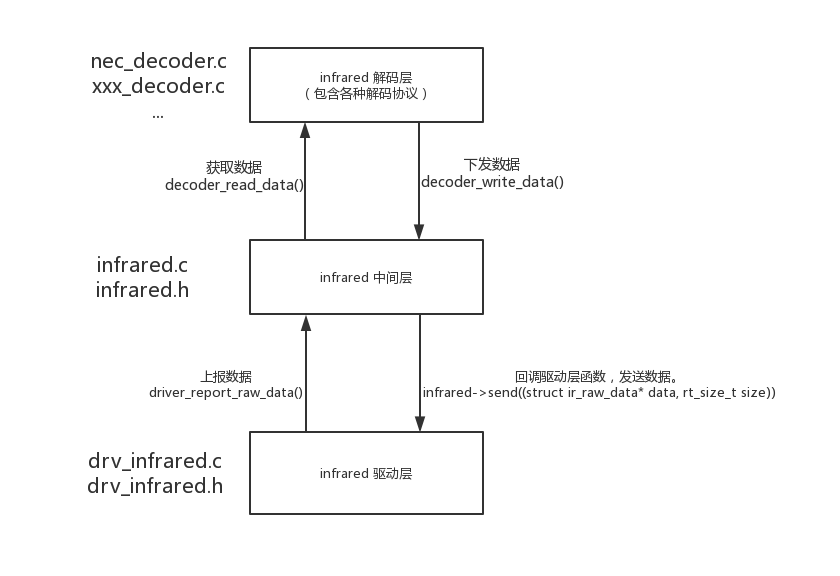
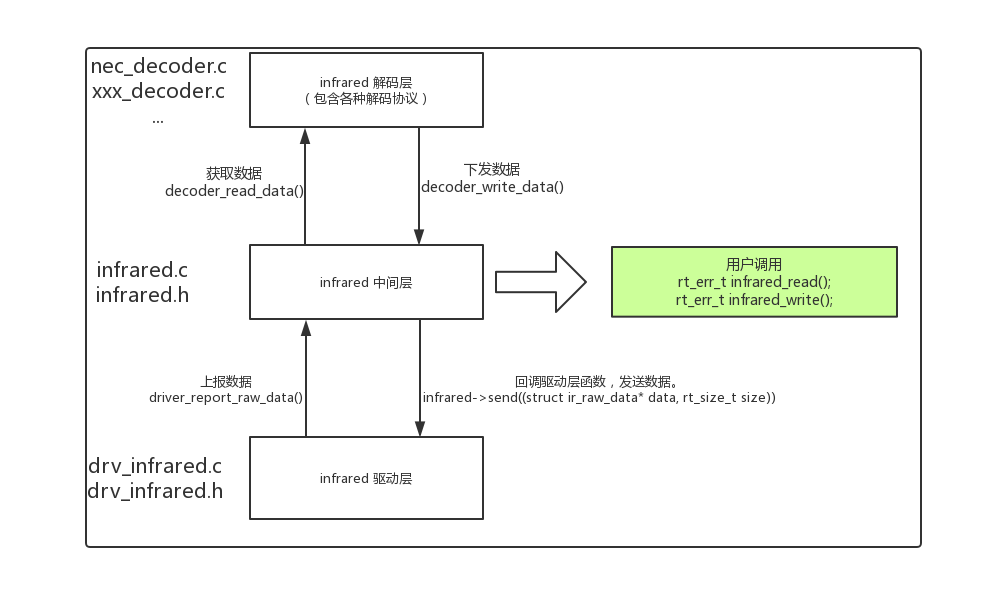
[Adjust] function name and README.md

diff --git a/src/infrared.c b/src/infrared.c
@@ -11,10 +11,9 @@
 #include <infrared.h>
 #include "ipc/ringbuffer.h"
 
-#define LOG_TAG     "infrared"
-//#define LOG_LVL     LOG_LVL_DBG
-#define LOG_LVL     LOG_LVL_INFO
-#include <ulog.h>
+#define DBG_SECTION_NAME     "infrared"
+#define DBG_LEVEL     DBG_INFO
+#include <rtdbg.h>
 
 static struct infrared_class infrared;
 
@@ -117,7 +116,7 @@ rt_err_t decoder_write_data(struct ir_raw_data* data, rt_size_t size)
     infrared.send(data, size);
     return RT_EOK;
 }
-rt_err_t user_read_api(const char* decoder_name, struct infrared_decoder_data* data)
+rt_err_t infrared_read(const char* decoder_name, struct infrared_decoder_data* data)
 {
     struct decoder_class *decoder;
 
@@ -137,7 +136,7 @@ rt_err_t user_read_api(const char* decoder_name, struct infrared_decoder_data* d
     return -RT_ERROR;
 }
 
-rt_err_t user_write_api(const char* decoder_name, struct infrared_decoder_data* data)
+rt_err_t infrared_write(const char* decoder_name, struct infrared_decoder_data* data)
 {
     struct decoder_class *decoder;
 

diff --git a/src/drv_infrared.c b/src/drv_infrared.c
@@ -14,10 +14,9 @@
 #include "infrared.h"
 #include "drv_infrared.h"
 
-#define LOG_TAG     "drv.infrared"
-//#define LOG_LVL     LOG_LVL_DBG
-#define LOG_LVL     LOG_LVL_INFO
-#include <ulog.h>
+#define DBG_SECTION_NAME     "drv.infrared"
+#define DBG_LEVEL     DBG_INFO
+#include <rtdbg.h>
 
 #ifdef PKG_USING_INFRARED
 
@@ -71,7 +70,7 @@ rt_err_t infrared_send_init(void)
         return RT_ERROR;
     }
 
-    rt_pwm_set(pwm_dev, PWM_DEV_CHANNEL, 30000, 10000);
+    rt_pwm_set(pwm_dev, PWM_DEV_CHANNEL, 26316, 8770);
     rt_pwm_disable(pwm_dev, PWM_DEV_CHANNEL);
 
     send_time_dev = rt_device_find(SEND_HWTIMER);

diff --git a/inc/infrared.h b/inc/infrared.h
@@ -65,7 +65,7 @@ rt_err_t ir_select_decoder(const char* name);
 rt_err_t decoder_read_data(struct ir_raw_data* data);
 rt_err_t decoder_write_data(struct ir_raw_data* data, rt_size_t size);
 
-rt_err_t user_read_api(const char* decoder_name,struct infrared_decoder_data* data);
-rt_err_t user_write_api(const char* decoder_name, struct infrared_decoder_data* data);
+rt_err_t infrared_read(const char* decoder_name,struct infrared_decoder_data* data);
+rt_err_t infrared_write(const char* decoder_name, struct infrared_decoder_data* data);
 
 #endif /* __INFRARED__ */

diff --git a/src/nec_decoder.c b/src/nec_decoder.c
@@ -11,10 +11,11 @@
 #include <infrared.h>
 #include "ipc/ringbuffer.h"
 
-#define LOG_TAG     "nec.decoder"
-//#define LOG_LVL     LOG_LVL_DBG
-#define LOG_LVL     LOG_LVL_INFO
-#include <ulog.h>
+#define DBG_SECTION_NAME     "nec.decoder"
+#define DBG_LEVEL     DBG_INFO
+#include <rtdbg.h>
+
+#ifdef INFRARED_NEC_DECODER
 
 #define NEC_BUFF_SIZE  32
 
@@ -264,3 +265,5 @@ int nec_decoder_register()
     return 0;
 }
 INIT_APP_EXPORT(nec_decoder_register);
+
+#endif /* INFRARED_NEC_DECODER */

diff --git a/README.md b/README.md
@@ -18,8 +18,8 @@ infrared
 ├───inc                             // 头文件
 ├───src                             // 源文件				
 ├───samples                         // 示例代码
-│   LICENSE                         // 软件包许可证
-│   README.md                       // 软件包使用说明
+│───LICENSE                         // 软件包许可证
+│───README.md                       // 软件包使用说明
 └───SConscript                      // RT-Thread 默认的构建脚本
 ```
 
@@ -35,6 +35,7 @@ infrared 软件包遵循 Apache-2.0 许可，详见 LICENSE 文件。
 RT-Thread online packages
     peripheral libraries and drivers  --->
          [*] infrared : infrared is base on rt-thread pin,hwtimer and pwm.  --->
+             Select infrared decoder  --->
              [ ] infrared send enable
              [ ] infrared receive enable
                  Version (latest)  --->
